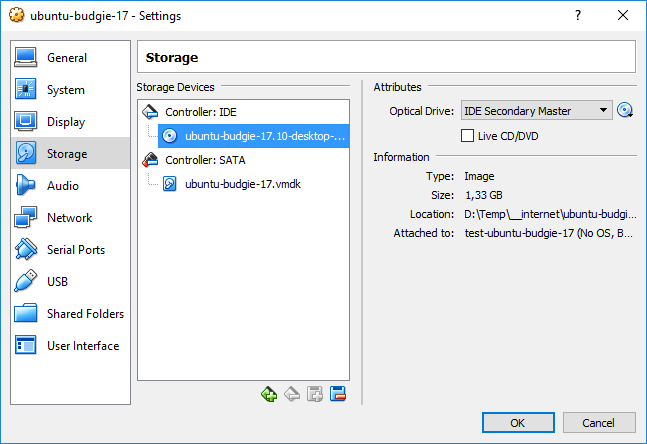
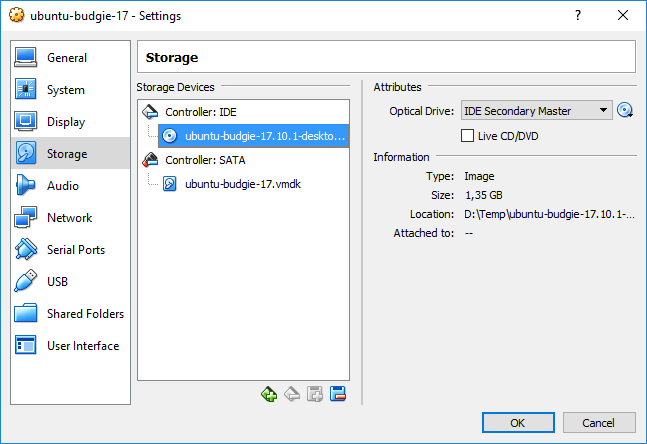
Add new version 10.0.2

Changed region(s): [[0.711, 0.4685, 0.9892, 0.5563], [0.4328, 0.2928, 0.5255, 0.3221]]

diff --git a/README.md b/README.md
@@ -138,9 +138,11 @@ Mount the OS installation's ISO file (grab it [here][install-1]). Click on the
 little CD icon to the right in the next picture. Then select "Choose Virtual
 Optical Disk File...".
 
-The file I mounted was named: `ubuntu-budgie-17.10-desktop-amd64.iso`.
+The file I mounted was named: `ubuntu-budgie-17.10.1-desktop-amd64.iso`.
 
 ![Mount the Ubuntu ISO][install-img-1]
+
+Start the VM and follow suit.
 
 ![Welcome][install-img-2]
 
@@ -163,14 +165,13 @@ Password = `vagrant`.
 
 ![Installing][install-img-9]
 
-![Restart prompt][install-img-10]
+Once the installation is done, the happy path would be to make a clean restart
+and boot into a fresh OS. Alas, after numerous hackathons, I must conclude that
+this is impossible without ultra weird disk read failures and hangs. So, KISS:
+*power off* the machine using VirtualBox and then unmount the installation
+medium.
 
-After restart, Ubuntu asks you to remove the installation medium. For whatever
-reason - and maybe this is only a phenomena local to my machine - but when I
-clicked on "Restart Now", my installation medium will automagically unmount. So
-all I need to do on this screen is to hit ENTER.
-
-![Remove medium][install-img-11]
+![Power off][install-img-10]
 
 [install-1]: https://ubuntubudgie.org/downloads
 
@@ -183,12 +184,11 @@ all I need to do on this screen is to hit ENTER.
 [install-img-7]: screenshots/install/7-keyboard.png
 [install-img-8]: screenshots/install/8-user.png
 [install-img-9]: screenshots/install/9-installing.png
-[install-img-10]: screenshots/install/10-restart.png
-[install-img-11]: screenshots/install/11-remove-medium.png
+[install-img-10]: screenshots/install/10-power-off.png
 
 ## Upgrade the system
 
-Open a terminal and run:
+Boot up the VM and open a terminal (Tilix), run:
 
     sudo apt update
     sudo apt full-upgrade -y
@@ -204,7 +204,7 @@ additional problems. My advice is to wait a few minutes (actually, more like
 After the upgrade completes, **restart**. If you don't restart, there will be a
 lot of problems lol. Especially so if the kernel was upgraded.
 
-Open a terminal and run:
+Next, run:
 
     wget https://github.com/martinanderssondotcom/box-ubuntu-budgie-17-x64/raw/master/prepare1.sh
     sudo sh prepare1.sh
@@ -358,7 +358,7 @@ Make sure:
 - The project folder is synced back and forth.
 - The clipboard is bidirectional.
 
-Run:
+Run (you might wanna run the commands in the next section first!):
 
     vagrant destroy -f
     vagrant box remove ../ubuntu-budgie-17.box

diff --git a/CHANGELOG.md b/CHANGELOG.md
@@ -25,6 +25,15 @@ new Linux kernel, upgraded software packages and so on. Having that said, the
 
 [unreleased-1]: https://github.com/martinanderssondotcom/box-ubuntu-budgie-17-x64/compare/v10.0.1...HEAD
 
+## [10.0.2][1002-1] - 2018-01-30
+
+### Changed
+
+- Linux Kernel `4.13.0-32-generic` (was 4.13.0-21-generic).
+- VirtualBox Guest Additions `5.2.6r120293` (was 5.2.4r119785).
+
+[1002-1]: https://github.com/martinanderssondotcom/box-ubuntu-budgie-17-x64/compare/v10.0.1...v10.0.2
+
 ## [10.0.1][1001-1] - 2018-01-07
 
 ### Added
